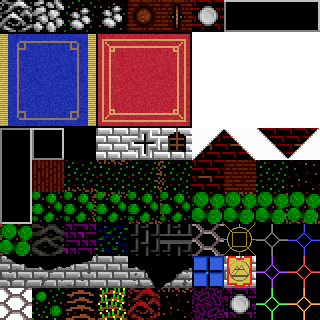
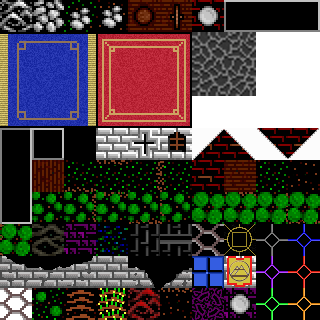
put cave floor in terrain spritesheet

Changed region(s): [[0.5938, 0.0938, 0.8125, 0.3125]]

diff --git a/util.js b/util.js
@@ -202,31 +202,40 @@ function getDisplayCell(mapname, centerx, centery, x, y, tp, ev) {
   var showGraphic = graphics[0];
   if ((typeof displaytile.setBySurround === "function") && ((losresult < LOS_THRESHOLD) || ev)) {
    	graphics = displaytile.setBySurround(x,y,mapname,graphics,1,centerx,centery,losresult);
-    showGraphic = graphics[0];
-    if (typeof displaytile.doTile === "function") {
-      showGraphic = displaytile.doTile(x,y,showGraphic);
-    }
-    displayCell.showGraphic = showGraphic;
+    displayCell.showGraphic = graphics[0];
     displayCell.graphics2 = graphics[2];
     displayCell.graphics3 = graphics[3];
     displayCell.graphics1 = graphics[1];
+    if (typeof displaytile.doTile === "function") {
+      showGraphic = displaytile.doTile(x,y,graphics[0]);
+      if (showGraphic.graphic) { displayCell.showGraphic = showGraphic.graphic; }
+      if (showGraphic.spritexoffset) { 
+        displayCell.graphics2 = showGraphic.spritexoffset;
+        displayCell.graphics3 = showGraphic.spriteyoffset;
+      }
+    }
     displayCell.losresult = losresult;
     displayCell.lighthere = lighthere;
     displayCell.desc = displaytile.getDesc();
   } else if ((losresult < LOS_THRESHOLD) || ((tp === 1) && isnpc) || ev) {
-    if (typeof displaytile.doTile === "function") {
-      showGraphic = displaytile.doTile(x,y,showGraphic);
-    }
-    if (typeof displaytile.setByBelow === "function") {
-      var setbelow = displaytile.setByBelow(x,y,mapname);
-      showGraphic = setbelow[0];
-      graphics[2] = setbelow[2];
-      graphics[3] = setbelow[3];
-    }
     displayCell.showGraphic = showGraphic;
     displayCell.graphics2 = graphics[2];
     displayCell.graphics3 = graphics[3];
     displayCell.graphics1 = graphics[1];
+    if (typeof displaytile.doTile === "function") {
+      showGraphic = displaytile.doTile(x,y,showGraphic);
+      if (showGraphic.graphic) { displayCell.showGraphic = showGraphic.graphic; }
+      if (showGraphic.hasOwnProperty("spritexoffset")) { 
+        displayCell.graphics2 = showGraphic.spritexoffset;
+        displayCell.graphics3 = showGraphic.spriteyoffset;
+      }      
+    }
+    if (typeof displaytile.setByBelow === "function") {
+      var setbelow = displaytile.setByBelow(x,y,mapname);
+      displayCell.showGraphic = setbelow[0];
+      displayCell.graphics2 = setbelow[2];
+      displayCell.graphics3 = setbelow[3];
+    }
     displayCell.losresult = losresult;
     displayCell.lighthere = lighthere;
     displayCell.isnpc = isnpc;
@@ -280,14 +289,18 @@ function GetDisplayTerrain(mapref, xcoord, ycoord,centerx,centery,losresult) {
     showGraphic = graphics[0];
   }
 
-  if (typeof displaytile.doTile === "function") {
-    showGraphic = displaytile.doTile(xcoord,ycoord,showGraphic);
-  }
-
   displayCell.showGraphic = showGraphic;
   displayCell.graphics2 = graphics[2];
   displayCell.graphics3 = graphics[3];
   displayCell.graphics1 = graphics[1];
+  if (typeof displaytile.doTile === "function") {
+    showGraphic = displaytile.doTile(xcoord,ycoord,showGraphic);
+    if (showGraphic.graphic) { displayCell.showGraphic = showGraphic.graphic; }
+    if (showGraphic.hasOwnProperty("spritexoffset")) { 
+      displayCell.graphics2 = showGraphic.spritexoffset;
+      displayCell.graphics3 = showGraphic.spriteyoffset;
+    }        
+  }
 
   return displayCell;
 

diff --git a/gameObjects.js b/gameObjects.js
@@ -127,7 +127,7 @@ ProtoObject.prototype.copy = function(type) {
       copydata.homeMap = val.getName();
       copydata.traceback.push("homeMap");
       DebugWrite("saveload", idx + " copied... ");
-    } else if ((idx === "resists") || (idx === "specials")) {
+    } else if ((idx === "resists") || (idx === "specials") || (idx === "flags")) {
       if ((typeof base_version[idx] === "object") && objectCompare(val, base_version[idx])) {
         DebugWrite("saveload", idx + " an object and the <span style='color:firebrick'>same, moving on</span>...  ");
       } else {
@@ -887,8 +887,20 @@ function Tiling(tileval) {
 		tilingx = (tilingx % tileval); 
 		tilingy = (tilingy % tileval);
 		var foo = tilegraphic.split('.');
-	  return(foo[0] + "-" + tilingy + tilingx + "." + foo[1]);
+	  return({graphic: foo[0] + "-" + tilingy + tilingx + "." + foo[1]});
 	}
+}
+
+// Abstract class Tiling-spritesheet
+function TilingSpritesheet(tileval) {
+  this.doTile = function(tilingx,tilingy,tilegraphic) {
+		tilingx = (tilingx % tileval)*32; 
+    tilingy = (tilingy % tileval)*32;
+    var tileme = {};
+    tileme.spritexoffset = parseInt(this.spritexoffset) - tilingx;
+    tileme.spriteyoffset = parseInt(this.spriteyoffset) - tilingy;
+    return tileme;
+  }
 }
 
 //Abstract class HasAmbientNoise
@@ -2890,7 +2902,9 @@ ShinglesTopTile.prototype = new TerrainObject();
 
 function CaveFloorTile() {
 	this.name = "CaveFloor";
-	this.graphic = "cavefloor.gif";
+  this.graphic = "terrain_tiles.png";
+  this.spritexoffset = "-192";
+  this.spriteyoffset = "-32";  
 	this.passable = MOVE_FLY + MOVE_ETHEREAL + MOVE_LEVITATE + MOVE_WALK;
 	this.blocklos = 0;
 	this.prefix = "a";
@@ -2898,7 +2912,7 @@ function CaveFloorTile() {
 	this.peerview = "#6c6c6c";
 	this.walkSound = "stone";
 	
-	Tiling.call(this, 2);
+	TilingSpritesheet.call(this, 2);
 }
 CaveFloorTile.prototype = new TerrainObject();
 
